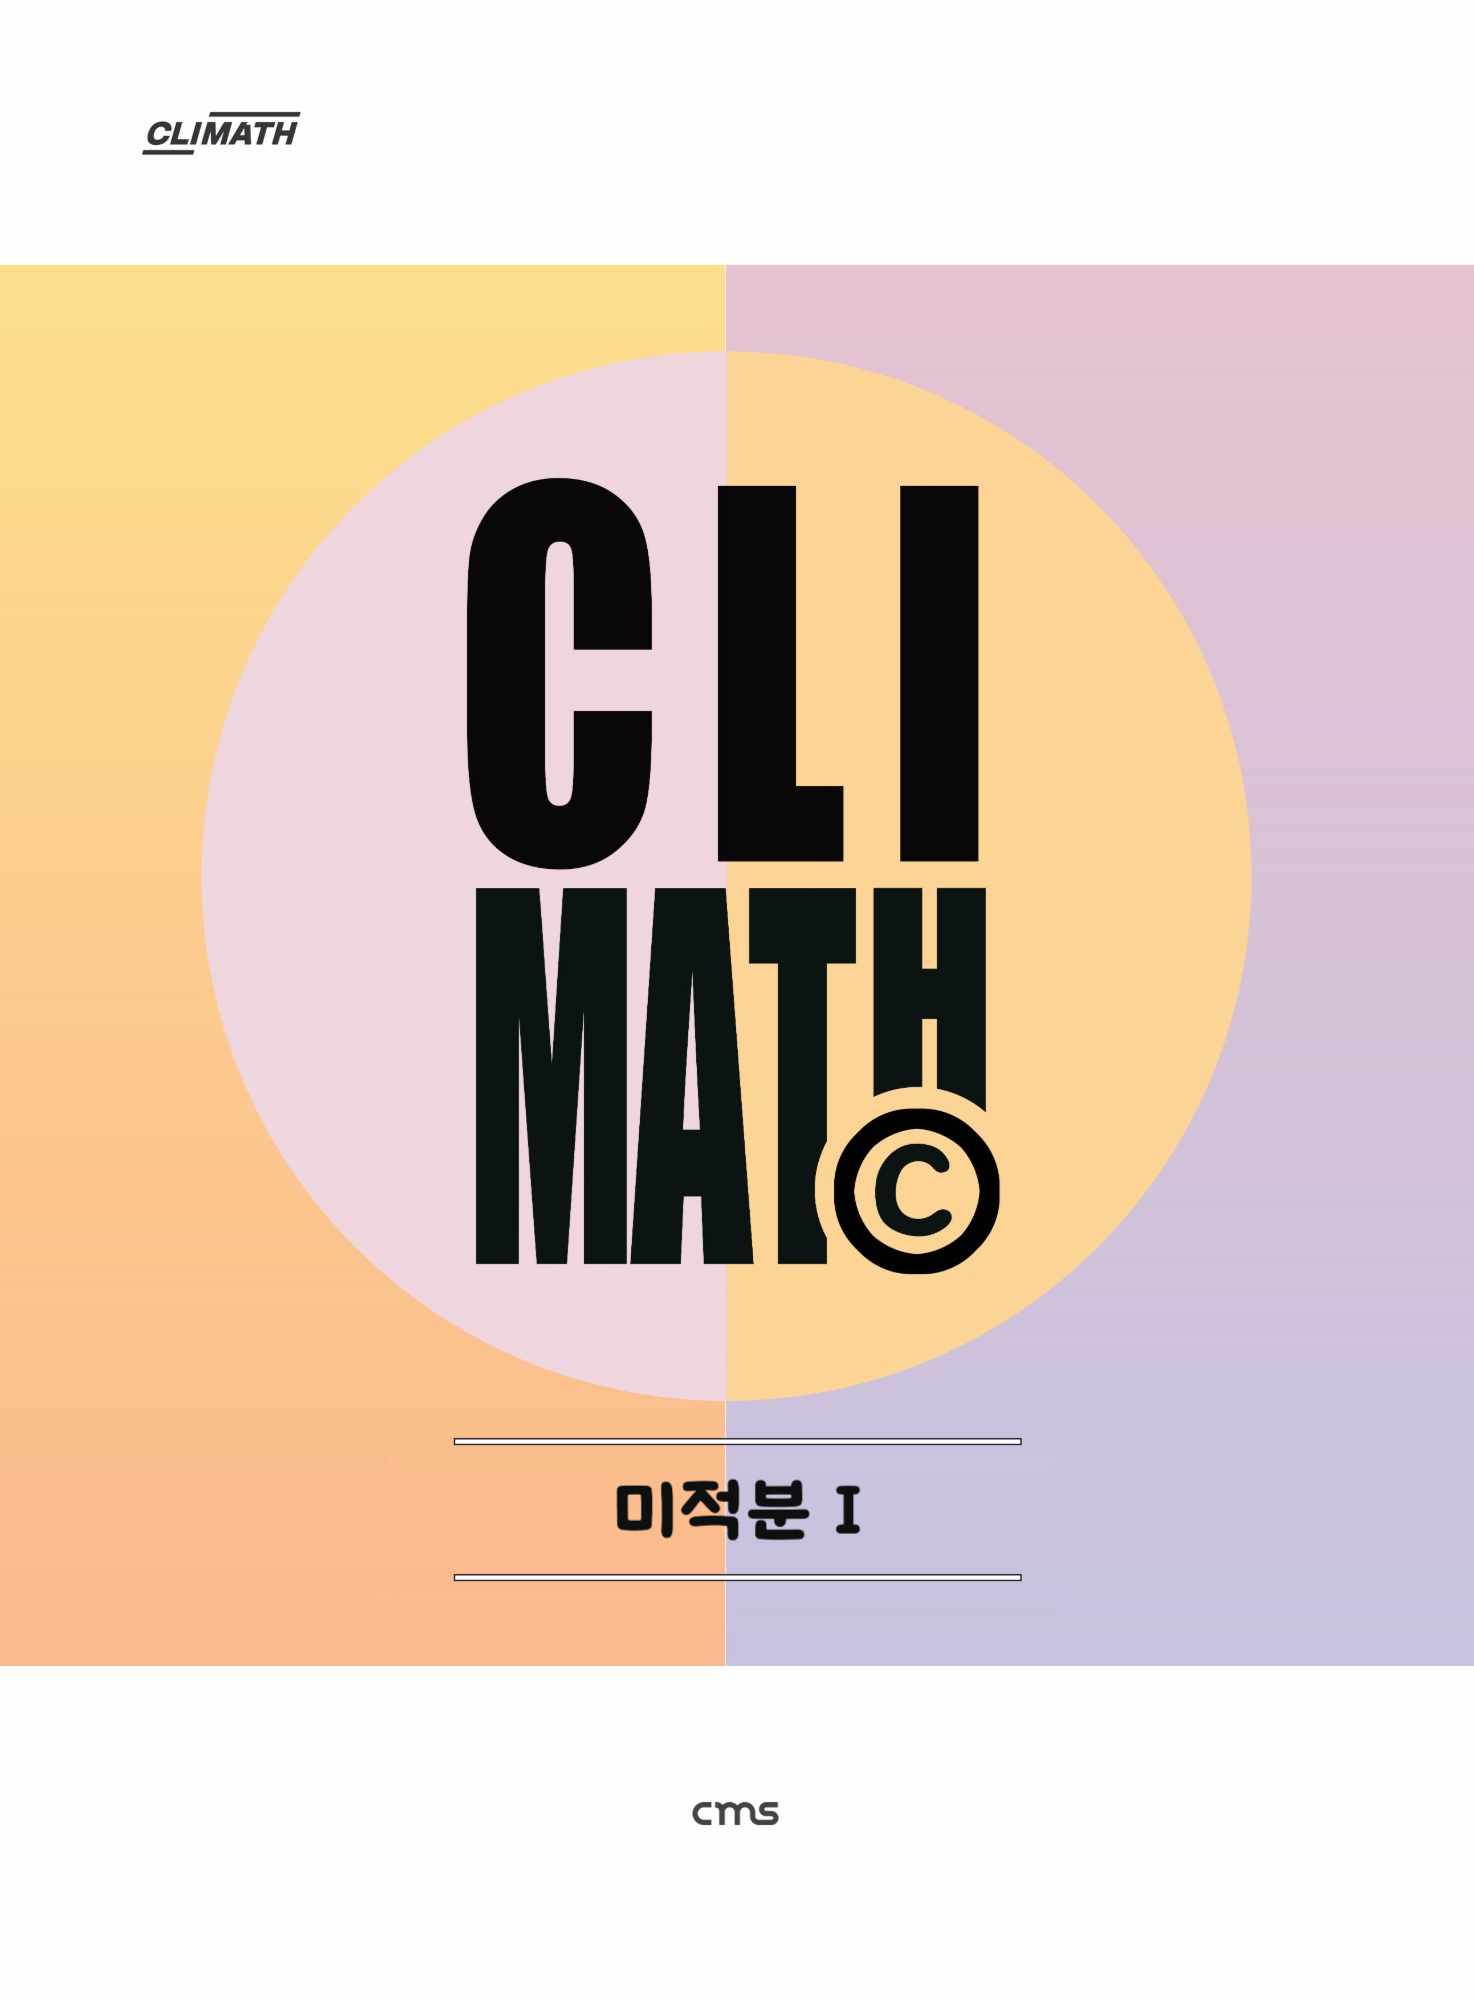
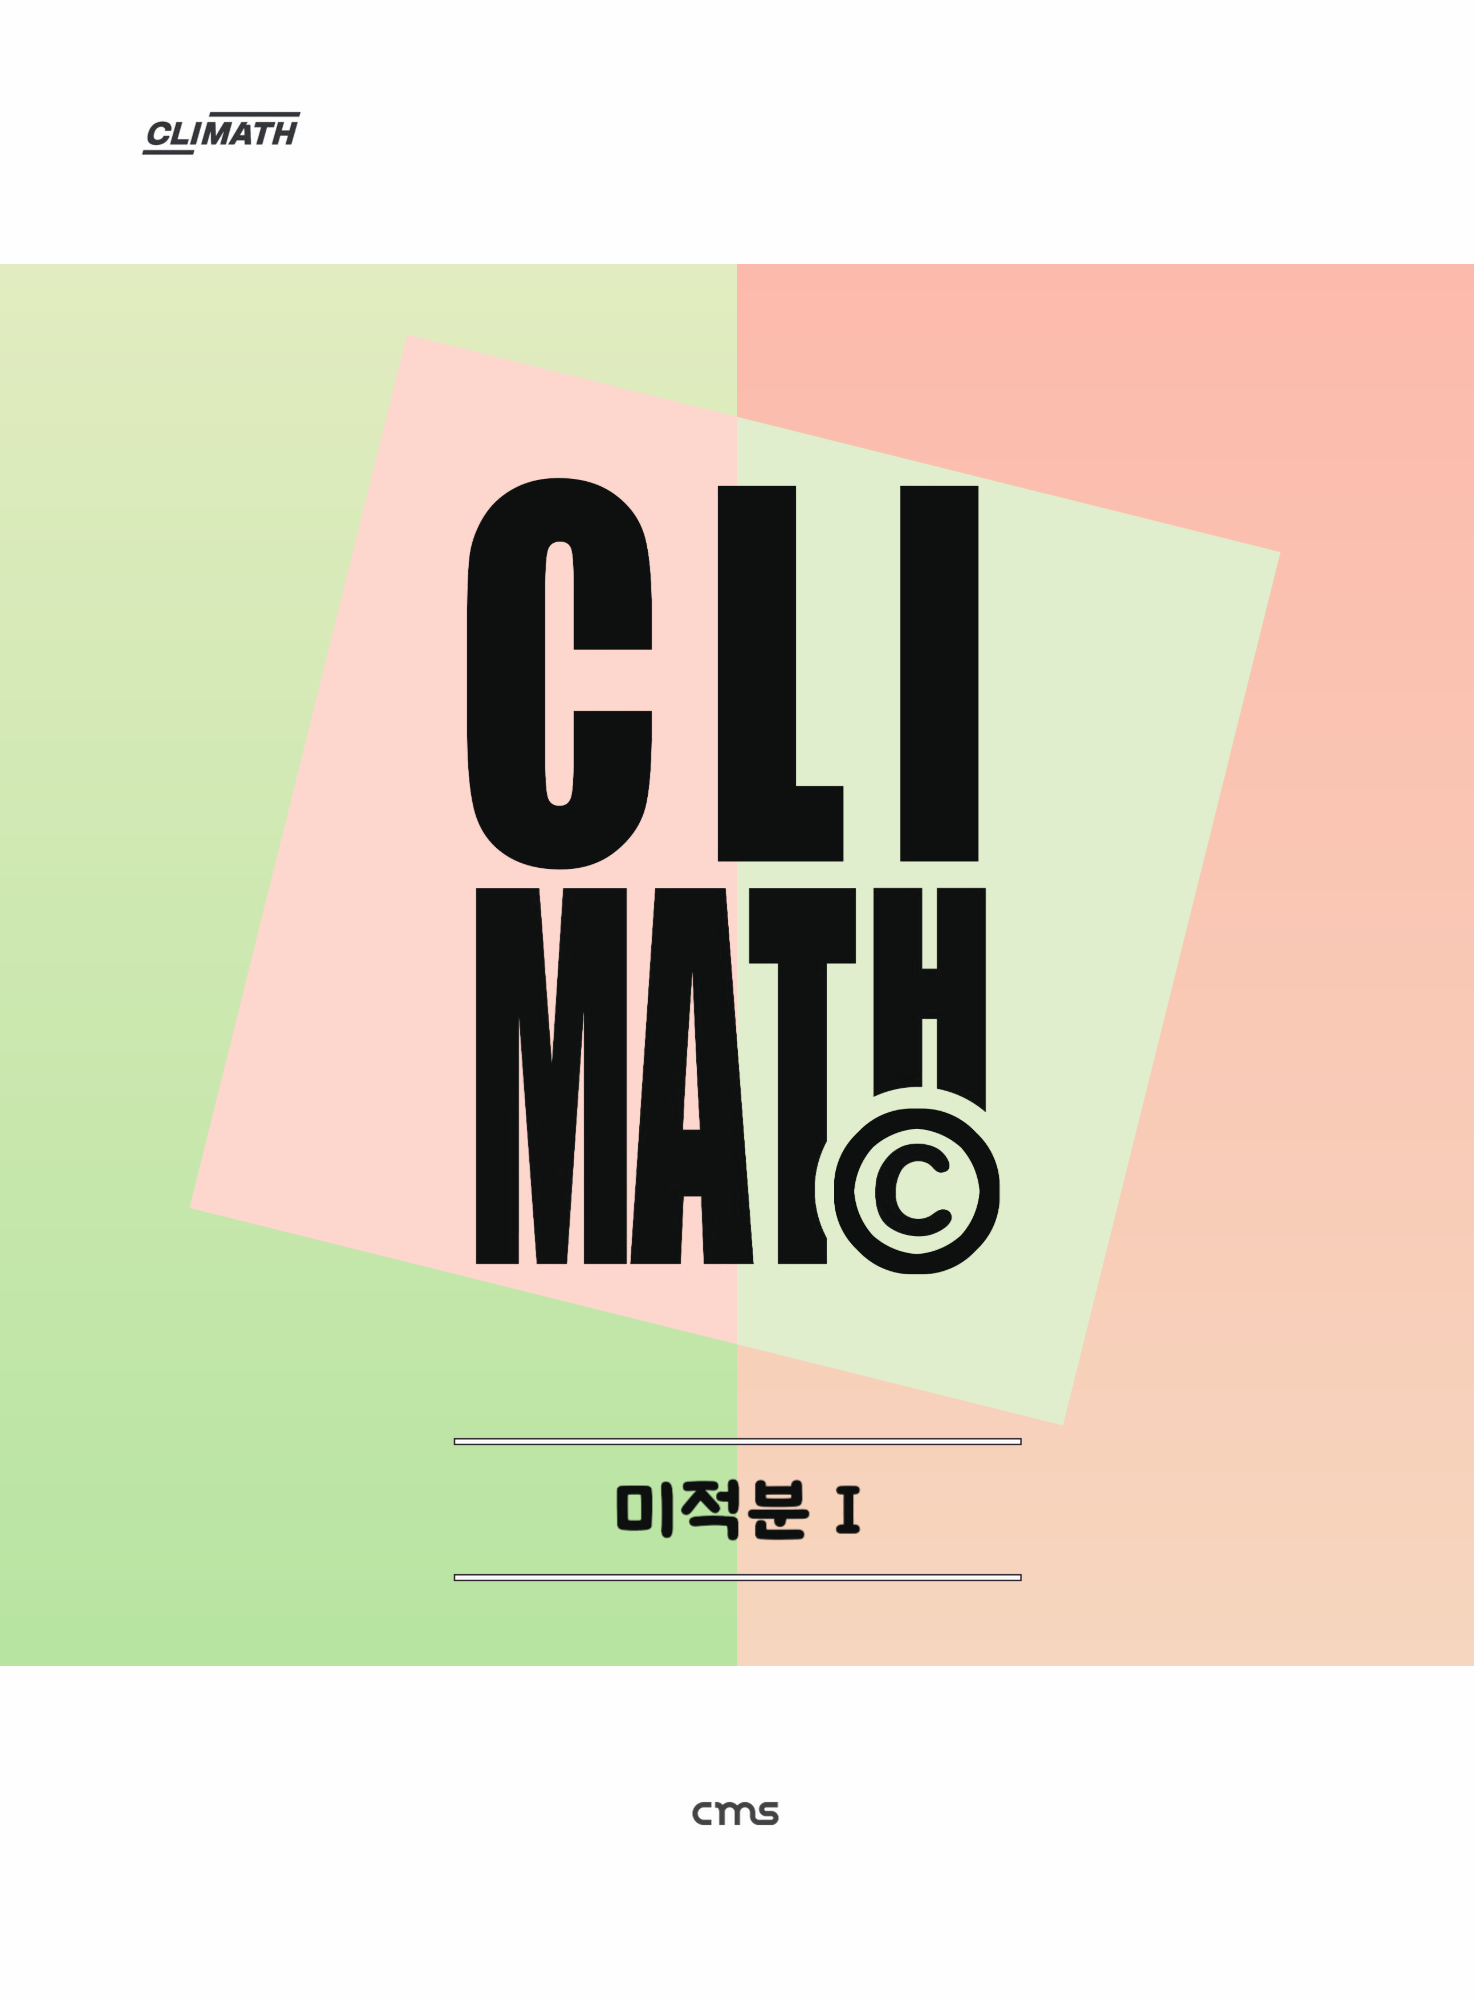
CLIMATH(c) 미적분Ⅰ 표지: 기울인 정사각형 바탕(분홍빛 주황·연두, 책등 연두)
Claude-Session: https://claude.ai/code/session_014WGsHSxW1TsHk3SpmxydRw

diff --git a/유형문제집/도구/cover/climath_cover_mi1_square.py b/유형문제집/도구/cover/climath_cover_mi1_square.py
@@ -1,0 +1,101 @@
+# -*- coding: utf-8 -*-
+"""CLIMATH(c) 미적분Ⅰ 표지 — 기울인 정사각형 바탕 (2026-11-26).
+python climath_cover_mi1_square.py <표지 폴더>
+- 사용자: (대수 네모 시안 B를 보고) '기울인 정사각형 이용, 주황 좀 더 핑크한 주황으로 하고 책등이 초록빛이 되도록 좌우 색 배합 바꾸기'
+  → '정사각형 기울인 거를 CLIMATH(c) 미적분1 표지로 하기'.
+- 바탕 짜임은 확률과 통계·미적분Ⅰ(옛 동그라미)과 같음: 색 띠(y 264~1665)를 x 737에서 반 나눠 좌우 세로 그러데이션 + 큰 도형(색 엇갈림).
+  · 왼쪽(책등 쪽): 연두 크림 (226, 236, 192) → 연두 (183, 228, 161)  / 오른쪽: 분홍빛 주황 (252, 186, 172) → 연한 살구 크림 (246, 214, 190)
+  · 14° 기울인 정사각형(한 변 900, 가운데 735, 880): 왼쪽 연한 분홍 주황 (253, 215, 206), 오른쪽 연한 연두 (224, 238, 205).
+- 앞표지: 지금 미적분Ⅰ 앞표지(이전 판 `표지/시안/이전_CLIMATH_c_미적분1_*.png`)의 검은 글자(CLI MATH·ⓒ·'미적분 Ⅰ')를 떼어 새 바탕 위에, 제목 줄·로고는 그대로 다시.
+- 책등·뒤표지: 색 띠(책등 x 1178~1413, 뒤 x 1178~1473, y 264~1665)를 앞표지 띠 왼쪽 끝 세로 색(연두 그러데이션)으로. 책등 글씨(제목·ⓒ)는 떼어 다시 얹음.
+"""
+import os, sys
+import numpy as np
+import cv2
+from PIL import Image, ImageDraw
+
+cdir = sys.argv[1]
+BLACK = np.array((14.0, 16.0, 16.0))
+lum = lambda a: a[..., 0] * 0.299 + a[..., 1] * 0.587 + a[..., 2] * 0.114
+rd = lambda n: np.asarray(Image.open(os.path.join(cdir, n)).convert("RGB")).astype(float)
+sv = lambda a, n: Image.fromarray(a.round().clip(0, 255).astype(np.uint8)).save(os.path.join(cdir, n))
+BY0, BY1, SPLIT = 264, 1666, 737
+LT, LB = (226, 236, 192), (183, 228, 161)
+RT, RB = (252, 186, 172), (246, 214, 190)
+SQL, SQR = (253, 215, 206), (224, 238, 205)
+
+
+def vgrad(c0, c1, h):
+    t = np.linspace(0, 1, h)[:, None]
+    return np.array(c0, float)[None] * (1 - t) + np.array(c1, float)[None] * t
+
+
+def black_alpha(a, boxes, thr=40, wide=140):
+    L = lum(a)
+    core = np.zeros(L.shape, bool)
+    for (x0, y0, x1, y1) in boxes:
+        core[y0:y1, x0:x1] = L[y0:y1, x0:x1] < thr
+    dark = (cv2.dilate(core.astype(np.uint8), np.ones((5, 5), np.uint8)) > 0) & (L < wide)
+    fg = cv2.dilate(dark.astype(np.uint8) * 255, np.ones((7, 7), np.uint8))
+    B = cv2.inpaint(a.clip(0, 255).astype(np.uint8), fg, 6, cv2.INPAINT_TELEA).astype(float)
+    d = BLACK - B
+    al = np.clip(((a - B) * d).sum(axis=2) / np.maximum((d * d).sum(axis=2), 1.0), 0, 1) * (fg > 0)
+    al[al < 0.04] = 0
+    return al
+
+
+def lines(im):
+    EDGE = (45, 38, 45); T, HW = 1.45, 4.2; X0W, X1W = 455.3, 1020.3
+    for cy in (1441.65, 1577.65):
+        y0, y1 = cy - HW / 2, cy + HW / 2
+        X0, Y0 = int(X0W - T) - 2, int(y0 - T) - 2
+        Wd, Hd = int(X1W + T) + 3 - X0, int(y1 + T) + 3 - Y0
+        def mk(a0, b0, a1, b1):
+            m = Image.new("L", (Wd * 8, Hd * 8), 0)
+            ImageDraw.Draw(m).rectangle(((a0 - X0) * 8, (b0 - Y0) * 8, (a1 - X0) * 8 - 1, (b1 - Y0) * 8 - 1), fill=255)
+            return np.asarray(m.resize((Wd, Hd), Image.LANCZOS)).astype(float)[..., None] / 255.0
+        o, i = mk(X0W - T, y0 - T, X1W + T, y1 + T), mk(X0W, y0, X1W, y1)
+        r = im[Y0:Y0 + Hd, X0:X0 + Wd]
+        r = r * (1 - o) + np.array(EDGE, float) * o
+        im[Y0:Y0 + Hd, X0:X0 + Wd] = r * (1 - i) + 255.0 * i
+
+
+# ---------------------------------------------------------------- 앞표지
+cur = rd("시안/이전_CLIMATH_c_미적분1_앞표지.png")
+H, W = cur.shape[:2]
+alpha = black_alpha(cur, [(450, 460, 1015, 1285), (560, 1465, 920, 1555)])
+h = BY1 - BY0
+band = np.empty((h, W, 3))
+band[:, :SPLIT] = vgrad(LT, LB, h)[:, None, :]
+band[:, SPLIT:] = vgrad(RT, RB, h)[:, None, :]
+t = np.radians(14); c, s = np.cos(t), np.sin(t)
+cx, cy, side = 735, 880, 900
+sq = [(cx + dx * c - dy * s, cy + dx * s + dy * c) for dx, dy in ((-side / 2, -side / 2), (side / 2, -side / 2), (side / 2, side / 2), (-side / 2, side / 2))]
+S = 4
+m = Image.new("L", (W * S, h * S), 0)
+ImageDraw.Draw(m).polygon([(x * S, (y - BY0) * S) for x, y in sq], fill=255)
+m = np.asarray(m.resize((W, h), Image.LANCZOS)).astype(float)[..., None] / 255.0
+sqc = np.empty((h, W, 3)); sqc[:, :SPLIT] = SQL; sqc[:, SPLIT:] = SQR
+band = band * (1 - m) + sqc * m
+im = cur.copy()
+im[250:BY0] = 254.0; im[BY1:1680] = 254.0
+im[BY0:BY1] = band
+im = im * (1 - alpha[..., None]) + BLACK * alpha[..., None]
+lines(im)
+sv(im, "CLIMATH_c_미적분1_앞표지.png")
+strip = band[:, 0].copy()                                   # 앞표지 띠 왼쪽 끝 세로 색 = 책등·뒤표지 띠 색
+
+# ---------------------------------------------------------------- 책등
+sp = rd("시안/이전_CLIMATH_c_미적분1_책등.png")
+sal = black_alpha(sp, [(1300, 480, 1414, 780)], thr=60, wide=150)
+sp[250:BY0, 1170:] = 255.0; sp[BY1:1680, 1170:] = 255.0
+sp[BY0:BY1, 1178:1414] = strip[:, None, :]
+sp = sp * (1 - sal[..., None]) + BLACK * sal[..., None]
+sv(sp, "CLIMATH_c_미적분1_책등.png")
+
+# ---------------------------------------------------------------- 뒤표지
+bk = rd("시안/이전_CLIMATH_c_미적분1_뒤표지.png")
+bk[250:BY0, 1170:] = 255.0; bk[BY1:1680, 1170:] = 255.0
+bk[BY0:BY1, 1178:1474] = strip[:, None, :]
+sv(bk, "CLIMATH_c_미적분1_뒤표지.png")
+print("-> CLIMATH_c_미적분1_{앞표지,책등,뒤표지}.png (기울인 정사각형)")
